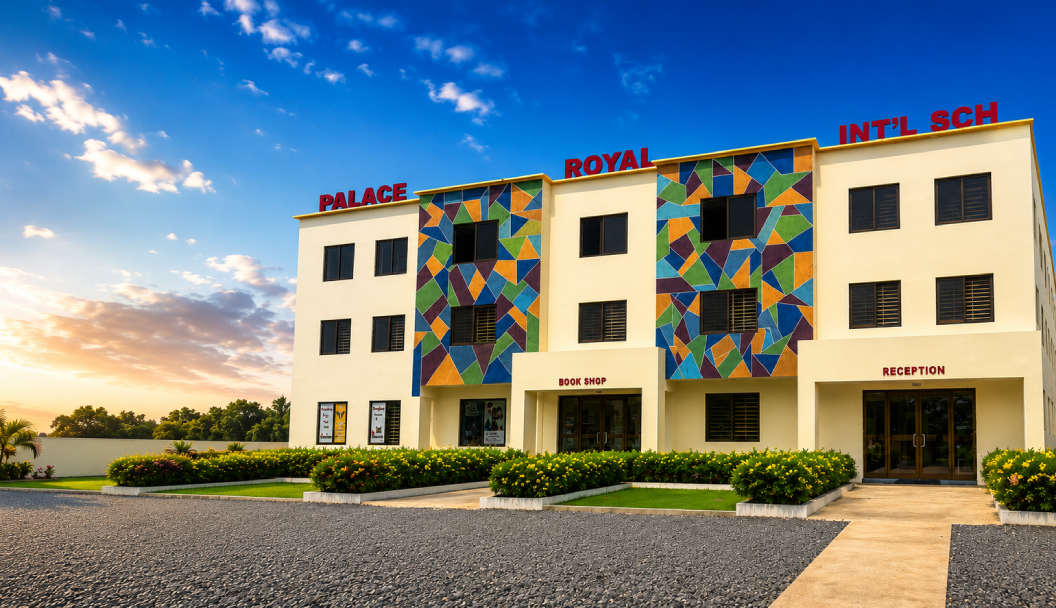
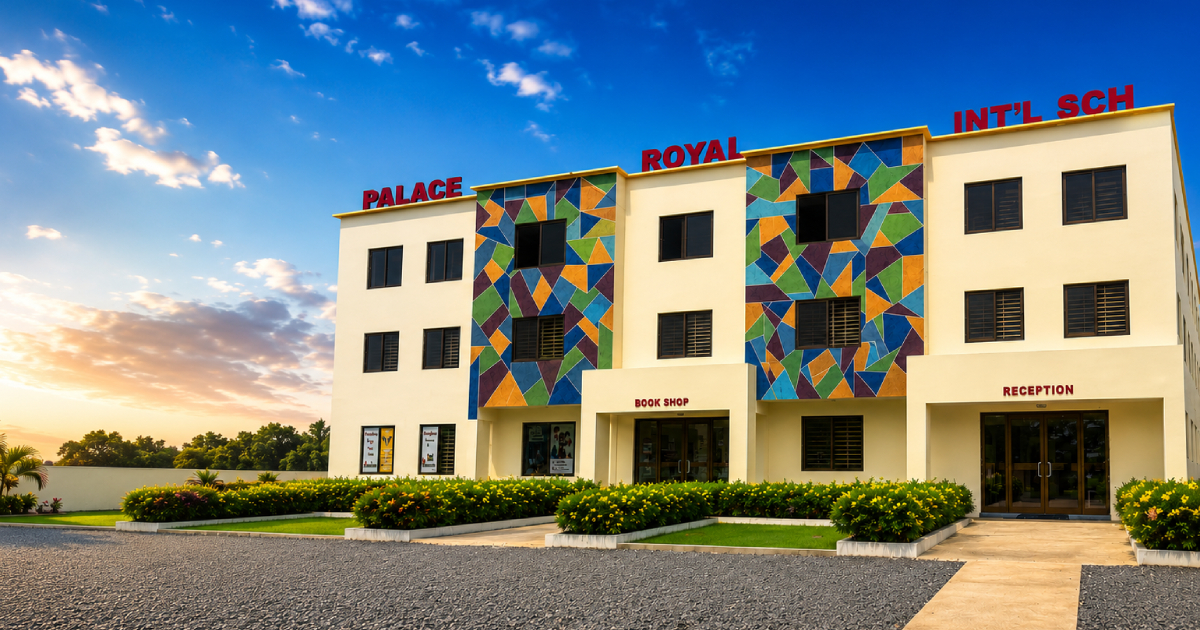
Fix layout and social sharing metadata

diff --git a/app/layout.tsx b/app/layout.tsx
@@ -15,32 +15,40 @@ const geistMono = Geist_Mono({
 
 const siteUrl = "https://palaceroyalinternationalschool.org";
 const socialImage = `${siteUrl}/images/news/social-share.jpg`;
+
 export const metadata: Metadata = {
   metadataBase: new URL(siteUrl),
 
   title: "Palace Royal International School",
 
   description:
-    "Welcome to Palace Royal International School in Madina, Accra, Ghana. Discover our curriculum, admissions, school community, and educational programmes.",
-openGraph: {
-  // Keep your existing title and description
-  images: [
-    {
-      url: socialImage,
-      width: 1200,
-      height: 630,
-      alt: "Palace Royal International School",
-    },
-  ],
-  // Keep your other existing settings
-},
+    "Quality early childhood education in Madina, Accra. Explore our curriculum and admissions.",
 
-twitter: {
-  card: "summary_large_image",
-  // Keep your existing title and description
-  images: [socialImage],
-},
+  openGraph: {
+    title: "Palace Royal International School",
+    description:
+      "Quality early childhood education in Madina, Accra. Explore our curriculum and admissions.",
+    url: siteUrl,
+    siteName: "Palace Royal International School",
+    images: [
+      {
+        url: socialImage,
+        width: 1200,
+        height: 630,
+        alt: "Palace Royal International School",
+      },
+    ],
+    locale: "en_GH",
+    type: "website",
+  },
 
+  twitter: {
+    card: "summary_large_image",
+    title: "Palace Royal International School",
+    description:
+      "Quality early childhood education in Madina, Ritz-Juction on the Ecowas Road. Explore our curriculum and admissions.",
+    images: [socialImage],
+  },
 };
 
 export default function RootLayout({
